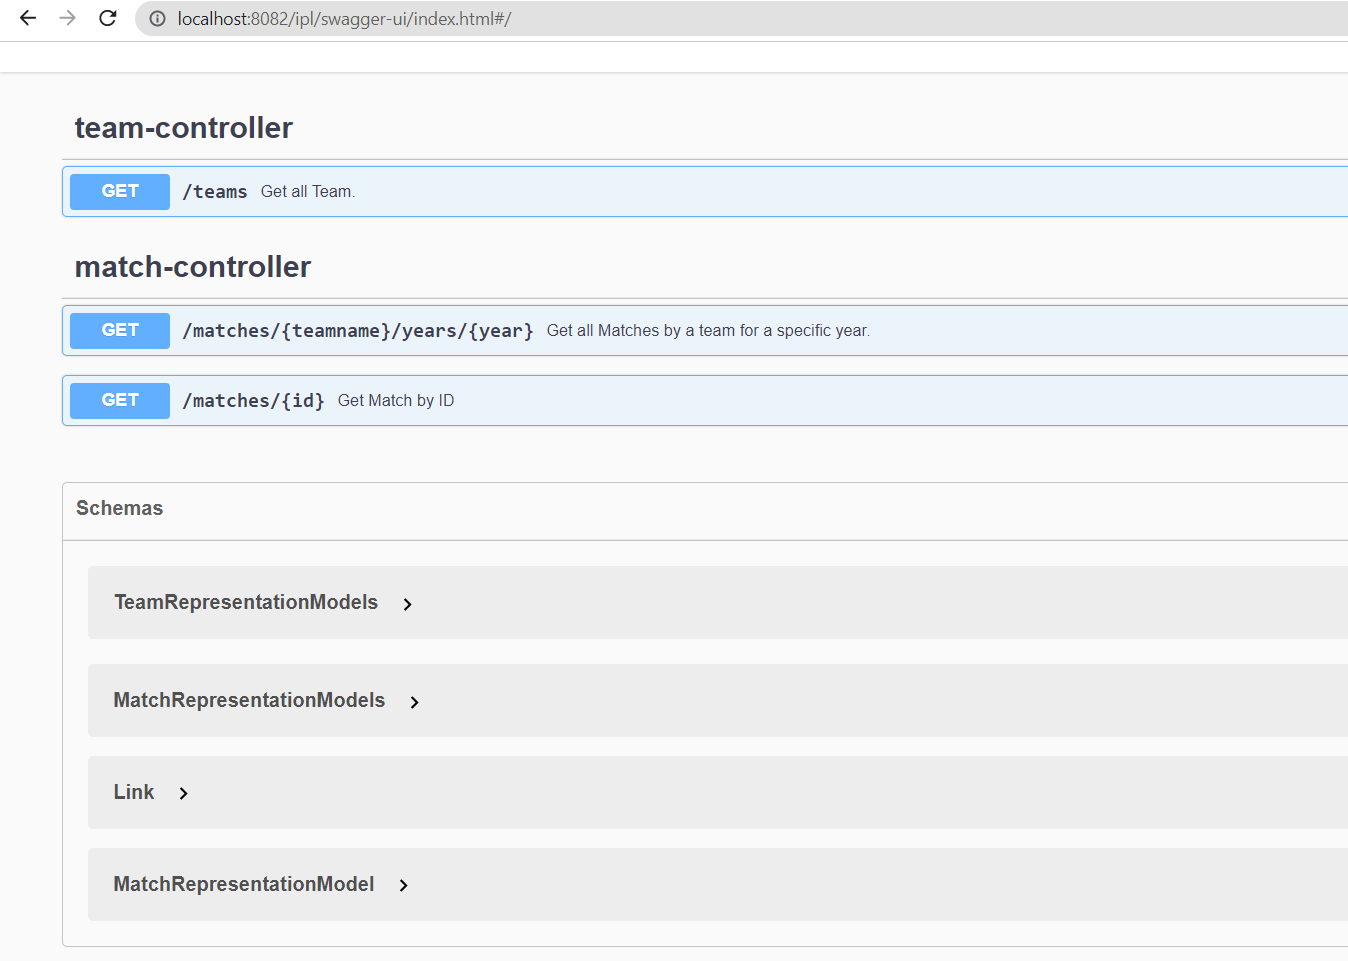
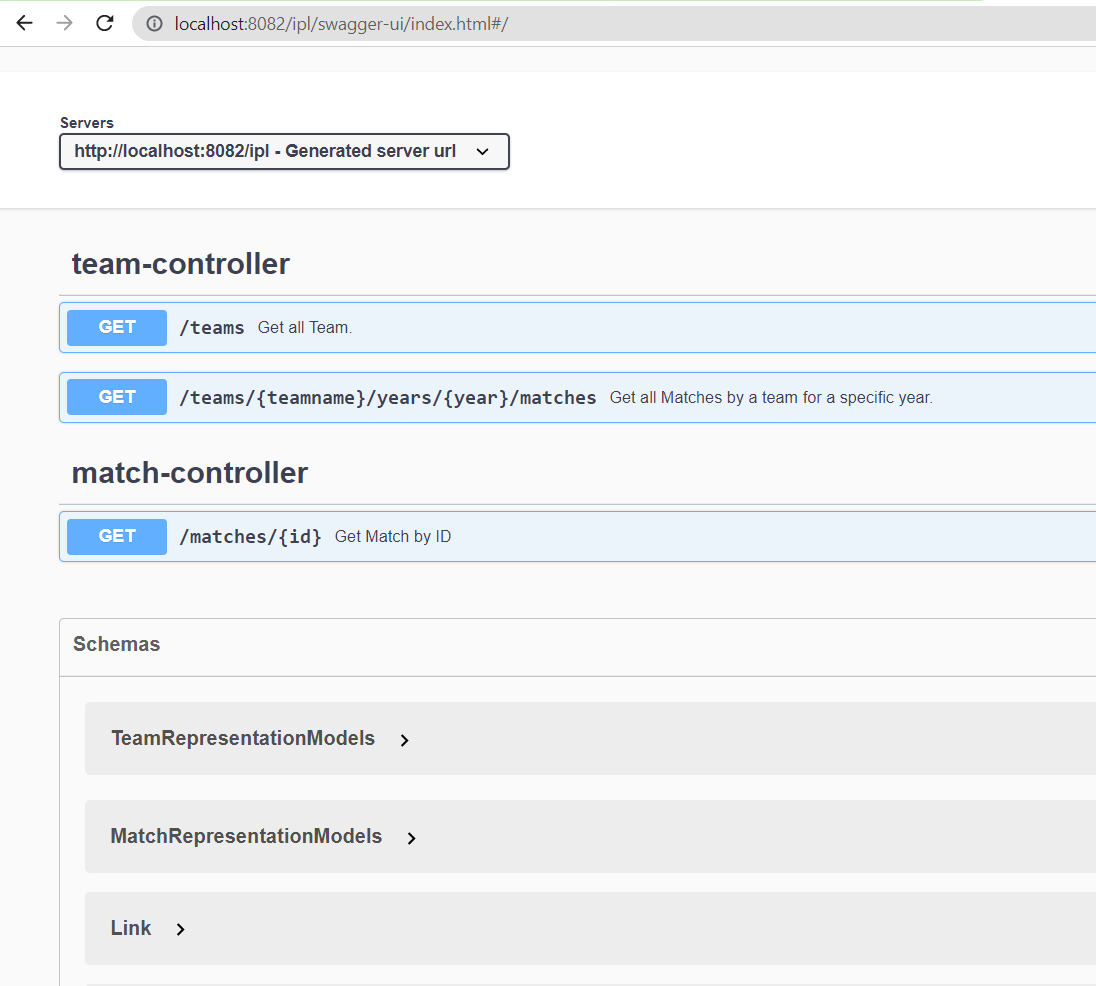
Added player of the match to the table.

diff --git a/frontend/ipl-dashboard-app/src/app/teamdetails/store/teamdetails.effects.ts b/frontend/ipl-dashboard-app/src/app/teamdetails/store/teamdetails.effects.ts
@@ -15,7 +15,7 @@ export class TeamdetailsEffects {
     ofType(MatchAction.FETCH_MATCHES),
     switchMap((data: MatchAction.FetchMatches) => {
       return this.http.get<HttpResponse<any>>(
-        `${environment.baseUrl}/teams/` + data.payload.team + "/years/" + data.payload.year
+        `${environment.baseUrl}/teams/` + data.payload.team + "/years/" + data.payload.year + "/matches"
       )
         .pipe(
           map((response: HttpResponse<any>) => {

diff --git a/frontend/ipl-dashboard-app/src/app/shared/models/Match.ts b/frontend/ipl-dashboard-app/src/app/shared/models/Match.ts
@@ -8,6 +8,7 @@ export class Match {
               public tossWinner: string,
               public tossDecision: string,
               public winner: string,
+              public playerOfMatch: string,
               public result: string,
               public umpire1: string,
               public umpire2: string) {

diff --git a/frontend/ipl-dashboard-app/src/app/teamdetails/teamdetails.component.html b/frontend/ipl-dashboard-app/src/app/teamdetails/teamdetails.component.html
@@ -29,6 +29,7 @@
             <div class="match-result">
               <div class="sub-header">Match Result</div>
               <div>{{match.result}}</div>
+              <div>MOM : {{match.playerOfMatch}} </div>
             </div>
           </div>
         </div>

diff --git a/common/src/main/java/com/ipl/dashboard/converter/ModelConverter.java b/common/src/main/java/com/ipl/dashboard/converter/ModelConverter.java
@@ -18,6 +18,7 @@ public class ModelConverter {
                 .tossDecision(source.getTossDecision())
                 .tossWinner(source.getTossWinner())
                 .result(source.getResult())
+                .playerOfMatch(source.getPlayerOfMatch())
                 .venue(source.getVenue())
                 .umpire1(source.getUmpire1())
                 .umpire2(source.getUmpire2())
@@ -35,6 +36,7 @@ public class ModelConverter {
                 .tossDecision(source.getTossDecision())
                 .tossWinner(source.getTossWinner())
                 .result(source.getResult())
+                .playerOfMatch(source.getPlayerOfMatch())
                 .venue(source.getVenue())
                 .umpire1(source.getUmpire1())
                 .umpire2(source.getUmpire2())
@@ -52,6 +54,7 @@ public class ModelConverter {
                 .tossDecision(source.getTossDecision())
                 .tossWinner(source.getTossWinner())
                 .result(source.getResult())
+                .playerOfMatch(source.getPlayerOfMatch())
                 .venue(source.getVenue())
                 .umpire1(source.getUmpire1())
                 .umpire2(source.getUmpire2())
@@ -69,6 +72,7 @@ public class ModelConverter {
                 .tossDecision(source.getTossDecision())
                 .tossWinner(source.getTossWinner())
                 .result(source.getResult())
+                .playerOfMatch(source.getPlayerOfMatch())
                 .venue(source.getVenue())
                 .umpire1(source.getUmpire1())
                 .umpire2(source.getUmpire2())

diff --git a/initial-data-feeder/src/main/java/com/ipl/dashboard/IplDataLoaderService.java b/initial-data-feeder/src/main/java/com/ipl/dashboard/IplDataLoaderService.java
@@ -110,6 +110,7 @@ public class IplDataLoaderService implements CommandLineRunner {
                 .tossDecision(inputMatch[InputFileFieldName.toss_decision.ordinal()])
                 .tossWinner(inputMatch[InputFileFieldName.toss_winner.ordinal()])
                 .result(getResult(inputMatch))
+                .playerOfMatch(inputMatch[InputFileFieldName.player_of_match.ordinal()])
                 .venue(inputMatch[InputFileFieldName.venue.ordinal()])
                 .umpire1(inputMatch[InputFileFieldName.umpire1.ordinal()])
                 .umpire2(inputMatch[InputFileFieldName.umpire2.ordinal()])

diff --git a/ipl-data-provider/src/main/java/com/ipl/dashboard/controller/TeamController.java b/ipl-data-provider/src/main/java/com/ipl/dashboard/controller/TeamController.java
@@ -51,7 +51,7 @@ public class TeamController {
             @ApiResponse(responseCode = "400", description = "Not found."),
             @ApiResponse(responseCode = "500", description = "Internal server error.")
     })
-    @GetMapping(value = "{teamname}/years/{year}")
+    @GetMapping(value = "{teamname}/years/{year}/matches")
     public @ResponseBody
     ResponseEntity<MatchRepresentationModels> getMatches(@PathVariable @NotEmpty String teamname,
                                                          @PathVariable @NotEmpty Integer year) {

diff --git a/ipl-data-provider/src/main/java/com/ipl/dashboard/model/converter/ModelRepresentationConverter.java b/ipl-data-provider/src/main/java/com/ipl/dashboard/model/converter/ModelRepresentationConverter.java
@@ -18,6 +18,7 @@ public class ModelRepresentationConverter extends ModelConverter {
                 .tossDecision(source.getTossDecision())
                 .tossWinner(source.getTossWinner())
                 .result(source.getResult())
+                .playerOfMatch(source.getPlayerOfMatch())
                 .venue(source.getVenue())
                 .umpire1(source.getUmpire1())
                 .umpire2(source.getUmpire2())

diff --git a/common/src/main/java/com/ipl/dashboard/model/WinningMatchByTeamAndYear.java b/common/src/main/java/com/ipl/dashboard/model/WinningMatchByTeamAndYear.java
@@ -57,6 +57,10 @@ public class WinningMatchByTeamAndYear {
     @CassandraType(type = CassandraType.Name.TEXT)
     private String result;
 
+    @Column("player_of_match")
+    @CassandraType(type = CassandraType.Name.TEXT)
+    private String playerOfMatch;
+
     @Column("umpire_1")
     @CassandraType(type = CassandraType.Name.TEXT)
     private String umpire1;

diff --git a/common/src/main/java/com/ipl/dashboard/model/LosingMatchByTeamAndYear.java b/common/src/main/java/com/ipl/dashboard/model/LosingMatchByTeamAndYear.java
@@ -57,6 +57,10 @@ public class LosingMatchByTeamAndYear {
     @CassandraType(type = CassandraType.Name.TEXT)
     private String result;
 
+    @Column("player_of_match")
+    @CassandraType(type = CassandraType.Name.TEXT)
+    private String playerOfMatch;
+
     @Column("umpire_1")
     @CassandraType(type = CassandraType.Name.TEXT)
     private String umpire1;

diff --git a/common/src/main/java/com/ipl/dashboard/model/Match.java b/common/src/main/java/com/ipl/dashboard/model/Match.java
@@ -60,6 +60,10 @@ public class Match {
     @CassandraType(type = CassandraType.Name.TEXT)
     private String result;
 
+    @Column("player_of_match")
+    @CassandraType(type = CassandraType.Name.TEXT)
+    private String playerOfMatch;
+
     @Column("umpire_1")
     @CassandraType(type = CassandraType.Name.TEXT)
     private String umpire1;

diff --git a/ipl-data-provider/src/main/java/com/ipl/dashboard/model/Representation/MatchRepresentationModel.java b/ipl-data-provider/src/main/java/com/ipl/dashboard/model/Representation/MatchRepresentationModel.java
@@ -21,6 +21,7 @@ public class MatchRepresentationModel extends RepresentationModel<MatchRepresent
     private String tossDecision;
     private String winner;
     private String result;
+    private String playerOfMatch;
     private String umpire1;
     private String umpire2;
 }

diff --git a/README.md b/README.md
@@ -8,6 +8,7 @@ This repository serves the different REST endpoints to provide different IPL rel
 2. Cassandra Database
 3. Spring boot starter Hateoas to frame to Hateoas links
 4. Swagger for Documentation
+5. Angular, Html, css for UI
 
 ### How to run ###
 1. Get the secure-connect zip file for Astra DB to your local machine 
@@ -22,6 +23,16 @@ This repository serves the different REST endpoints to provide different IPL rel
    java -jar .\ipl-data-provider.jar --datastax.astra.secure-connection-bundle=C:\MyWork\resources\secure-connect.zip
 
    ```  
+
+### Docker Deployment ###
+1. Navigate inside the docker-compose directory.
+2. Update `DATASTAX_ASTRA_SECURE_CONNECTION_BUNDLE` value in .env file.
+3. Run the below command
+   ```
+   docker-compose up -d
+   ```
+
+### Helm chart for Kubernetes Deployment ###
    
 ### API Documentation ###
 Once application is started, the documentation about the different REST endpoints can be found using the below link
@@ -31,4 +42,3 @@ http://localhost:8082/ipl/swagger-ui/index.html
 
 ![img.png](Documentation.png)
 
-###### Web UI code will be present in different git repository. ######
